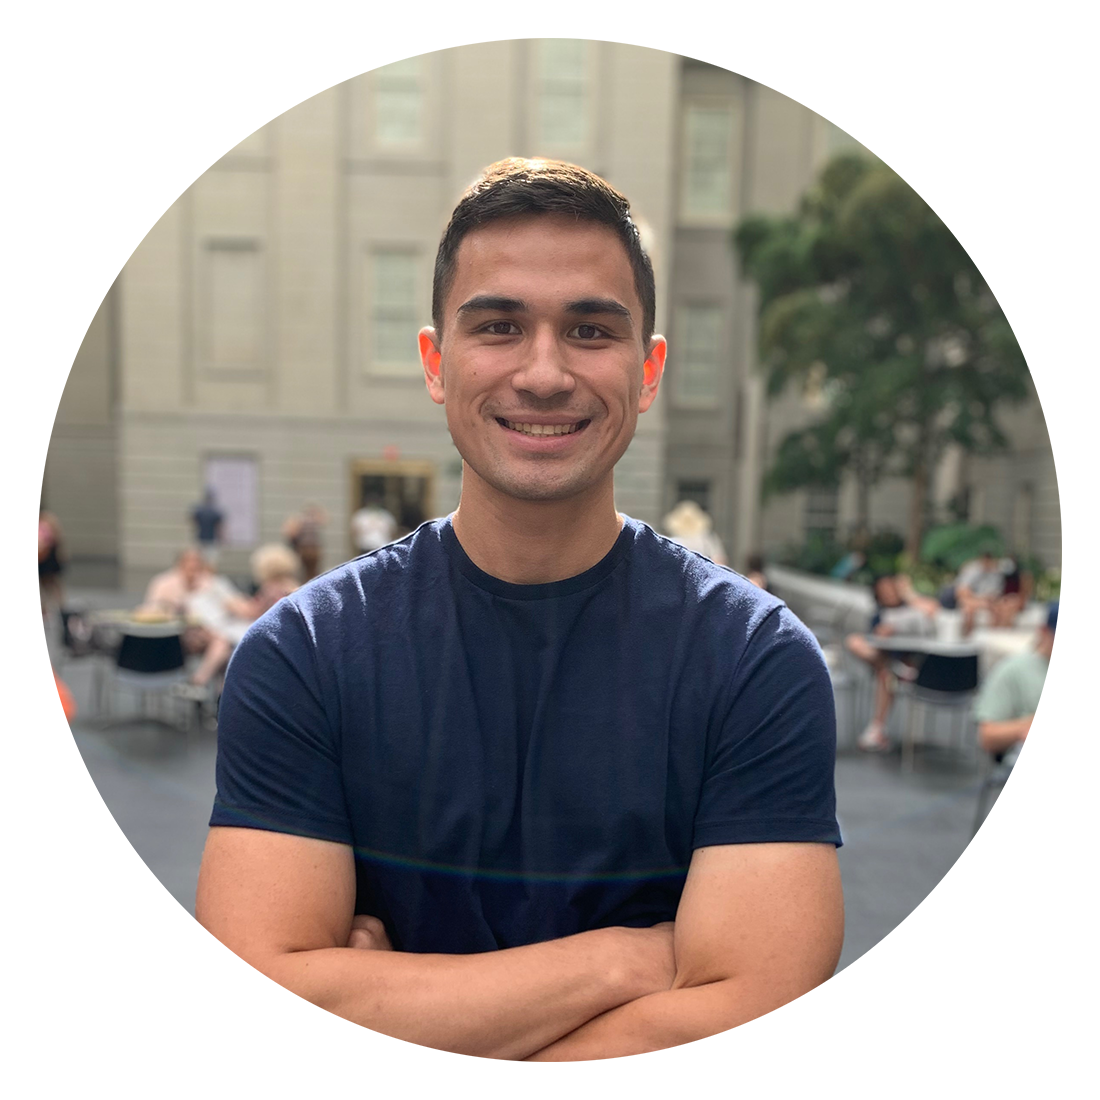
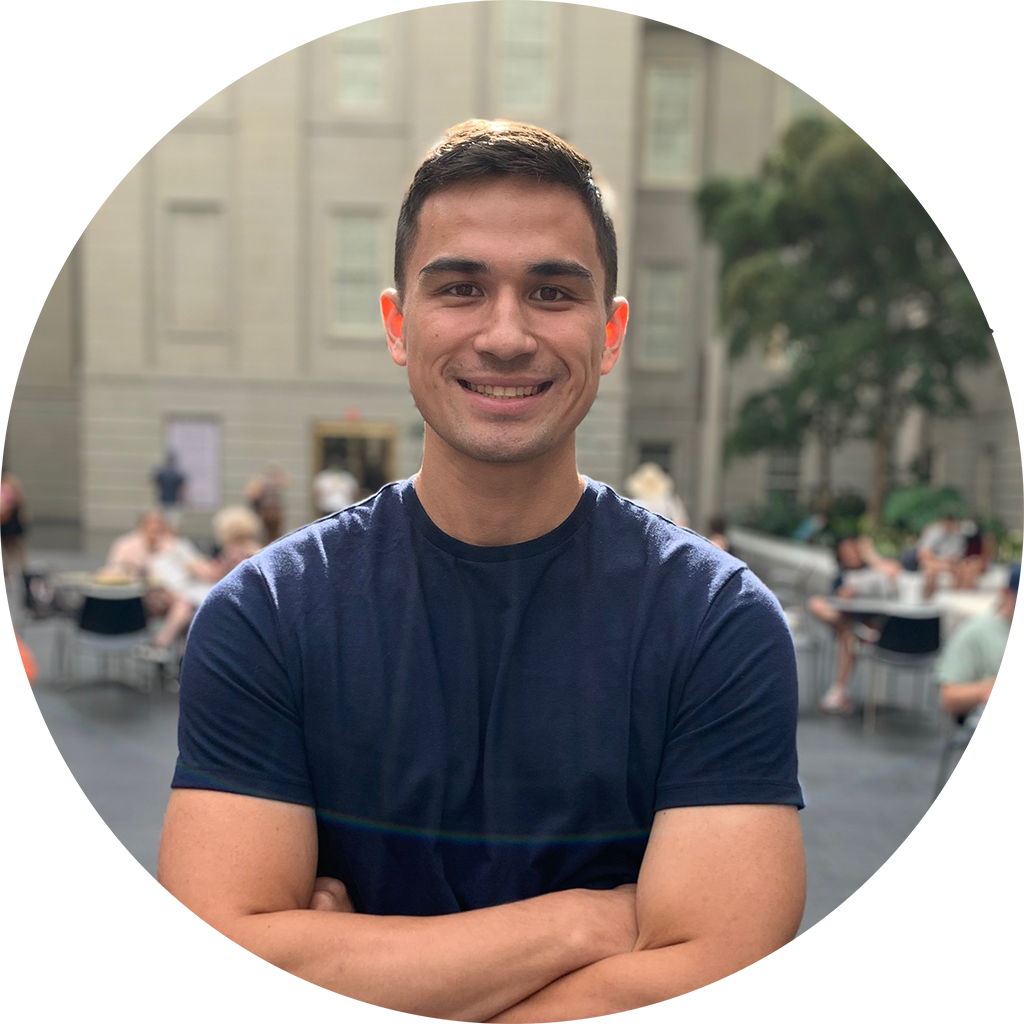
tweaks and refined home section

diff --git a/index.html b/index.html
@@ -5,6 +5,7 @@
     <link rel="preconnect" href="https://fonts.googleapis.com">
     <link rel="preconnect" href="https://fonts.gstatic.com" crossorigin>
     <link href="https://fonts.googleapis.com/css2?family=Roboto+Slab&display=swap" rel="stylesheet">
+    <script src="https://kit.fontawesome.com/a63c696839.js" crossorigin="anonymous"></script>
     <link rel="stylesheet" href="style.css">
 </head>
 <body>
@@ -18,13 +19,22 @@
     <div id="content" >
         <div class="section" id="home">
             <div class="left-col">
-                <img height=256 src="./images/headshot.png">
+                <img class="headshot" height=256 src="./images/headshot.png">
             </div>
             <div class="right-col">
-                <h1>Ryan Vaccariello</h1>
-                <h3>Software Engineer</h3>
-                <h4>CS @ Cornell Univeristy, May 2022</h4>
+                <h1 class="blue">Ryan Vaccariello</h1>
+                <h3 class="blue">Software Engineer</h3>
+                <div class="blue icons">
+                    <a target="_blank" href="https://www.linkedin.com/in/ryan-vaccariello/"><i class="fa-brands fa-linkedin"></i></a>
+                    <a target="_blank" href="https://github.com/ryanvac"><i class="fa-brands fa-github"></i></a>
+                </div>
             </div>
+        </div>
+        <div class="section" id="about">
+            <p>I am a graduating senior at Cornell studying Computer 
+                Sciences, and later this year I will be joining Google 
+                as a software engineer. Click the links below my name
+                to connect.</p>
         </div>
         <div class="section" id="experience">
             <div class="section-title">Experience</div>
@@ -37,7 +47,7 @@
                     <div class="right-col">
                         <div class="experience-title">
                             <span>Teaching Assistant @ </span>
-                            <a target="_blank" href="https://www.cornell.edu/" class="company">Cornell Univeristy</a>
+                            <a target="_blank" href="https://www.cornell.edu/" class="blue">Cornell Univeristy</a>
                         </div>
                         <div class="experience-dates">
                             Aug 2021 - Dec 2021
@@ -55,7 +65,7 @@
                     <div class="right-col">
                         <div class="experience-title">
                             <span>Price Volatility Management Intern @ </span>
-                            <a target="_blank" href="https://www.nationalgrid.com/" class="company">National Grid</a>
+                            <a target="_blank" href="https://www.nationalgrid.com/" class="blue">National Grid</a>
                         </div>
                         <div class="experience-dates">
                             Jul 2020 - Aug 2020
@@ -74,7 +84,7 @@
                     <div class="right-col">
                         <div class="experience-title">
                             <span>Tutor @ </span>
-                            <a target="_blank" href="https://www.varsitytutors.com/" class="company">Varsity Tutors</a>
+                            <a target="_blank" href="https://www.varsitytutors.com/" class="blue">Varsity Tutors</a>
                         </div>
                         <div class="experience-dates">
                             Mar 2020 - Jun 2020
@@ -92,7 +102,7 @@
                     <div class="right-col">
                         <div class="experience-title">
                             <span>Special Project Intern @ </span>
-                            <a target="_blank" href="https://www.adeccogroup.com/" class="company">The Adecco Group</a>
+                            <a target="_blank" href="https://www.adeccogroup.com/" class="blue">The Adecco Group</a>
                         </div>
                         <div class="experience-dates">
                             Aug 2021 - Dec 2021
@@ -114,7 +124,7 @@
                     <div class="right-col">
                         <div class="experience-title">
                             <span>Student @ </span>
-                            <a target="_blank" href="https://www.cornell.edu/" class="company">Cornell Univeristy</a>
+                            <a target="_blank" href="https://www.cornell.edu/" class="blue">Cornell Univeristy</a>
                         </div>
                         <div class="experience-dates">
                             Graduating May 2022
@@ -147,7 +157,7 @@
                             Party Playlist Mixer
                         </div>
                         <ul class="experience-text">
-                            <li>Final project in <a class="class" target="_blank" href="https://classes.cornell.edu/browse/roster/SP20/class/CS/4300">CS 4300 Language and Information</a></li>
+                            <li>Final project in <a class="blue" target="_blank" href="https://classes.cornell.edu/browse/roster/SP20/class/CS/4300">CS 4300 Language and Information</a></li>
                             <li>Collaborated within the Agile Development cycle to build full stack application that produces a personalized party playlist based on everyone's individual playlists</li>
                             <li>Implemented information retrieval and text analysis techniques in Python using Spotify's REST API and backed by MongoDB running on the Google Cloud Platform</li>
                         </ul>
@@ -162,7 +172,7 @@
                             NBA Game Predictor
                         </div>
                         <ul class="experience-text">
-                            <li>Product of project course <a class="class" target="_blank" href="https://classes.cornell.edu/browse/roster/FA21/class/CS/4701">CS 4701 Practicum in Artificial Intelligence</a></li>
+                            <li>Product of project course <a class="blue" target="_blank" href="https://classes.cornell.edu/browse/roster/FA21/class/CS/4701">CS 4701 Practicum in Artificial Intelligence</a></li>
                             <li>Collaborated to build an application to predict the outcome of NBA games based team statistics</li>
                             <li>Created K-nearest neighbor, support vector machine, and neural networks prediction models in Python based off 3000+ past NBA games</li>
                         </ul>
@@ -178,8 +188,9 @@
                 <div class="right-col interest-text">
                     <div class="interest-title">Snowboarding</div>
                     I first learned how to snowboard through a class at Cornell. 
-                    I enjoyed it so much that I decideded to get get my own snowboard, and now 
-                    this is my third season. This is a picture of me at Lake Placid, NY. 
+                    I enjoyed it so much that I decided to get my own snowboard, and now 
+                    this is my third season. This is a picture of me at Whiteface
+                    Mountain in Lake Placid, NY. 
                 </div>
                 <img class="left-col" height=256 src="./images/travel.jpg">
                 <div class="right-col interest-text">

diff --git a/style.css b/style.css
@@ -79,6 +79,21 @@ a {
     align-items: center;
 }
 
+.headshot {
+    border: 2px solid #445A70;
+    border-radius: 50%;
+    box-shadow: 2px 2px 5px #445a70;
+}
+
+#about {
+    max-width: 60%;
+    margin: auto;
+}
+
+.icons > a {
+    padding: 0px 4px;
+    cursor: pointer;
+}
 
 /* Experiences */
 
@@ -123,7 +138,7 @@ img.logo {
     background-color: white;
 }
 
-.company, .class {
+.blue {
     color: #234970;
 }
 
